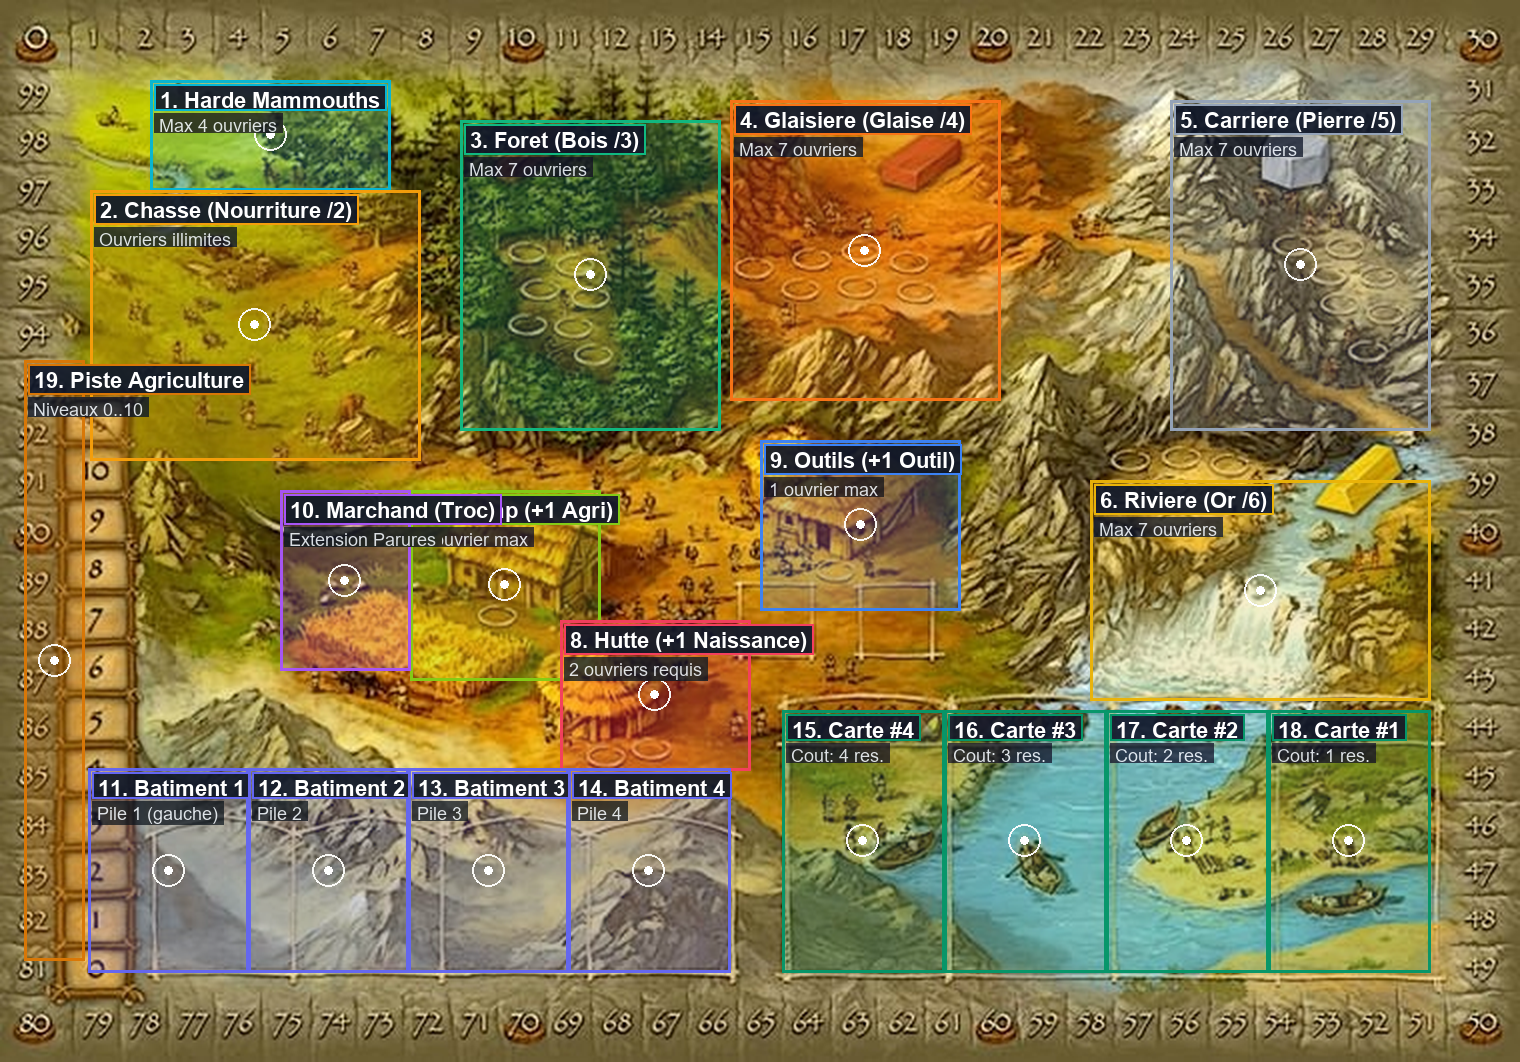
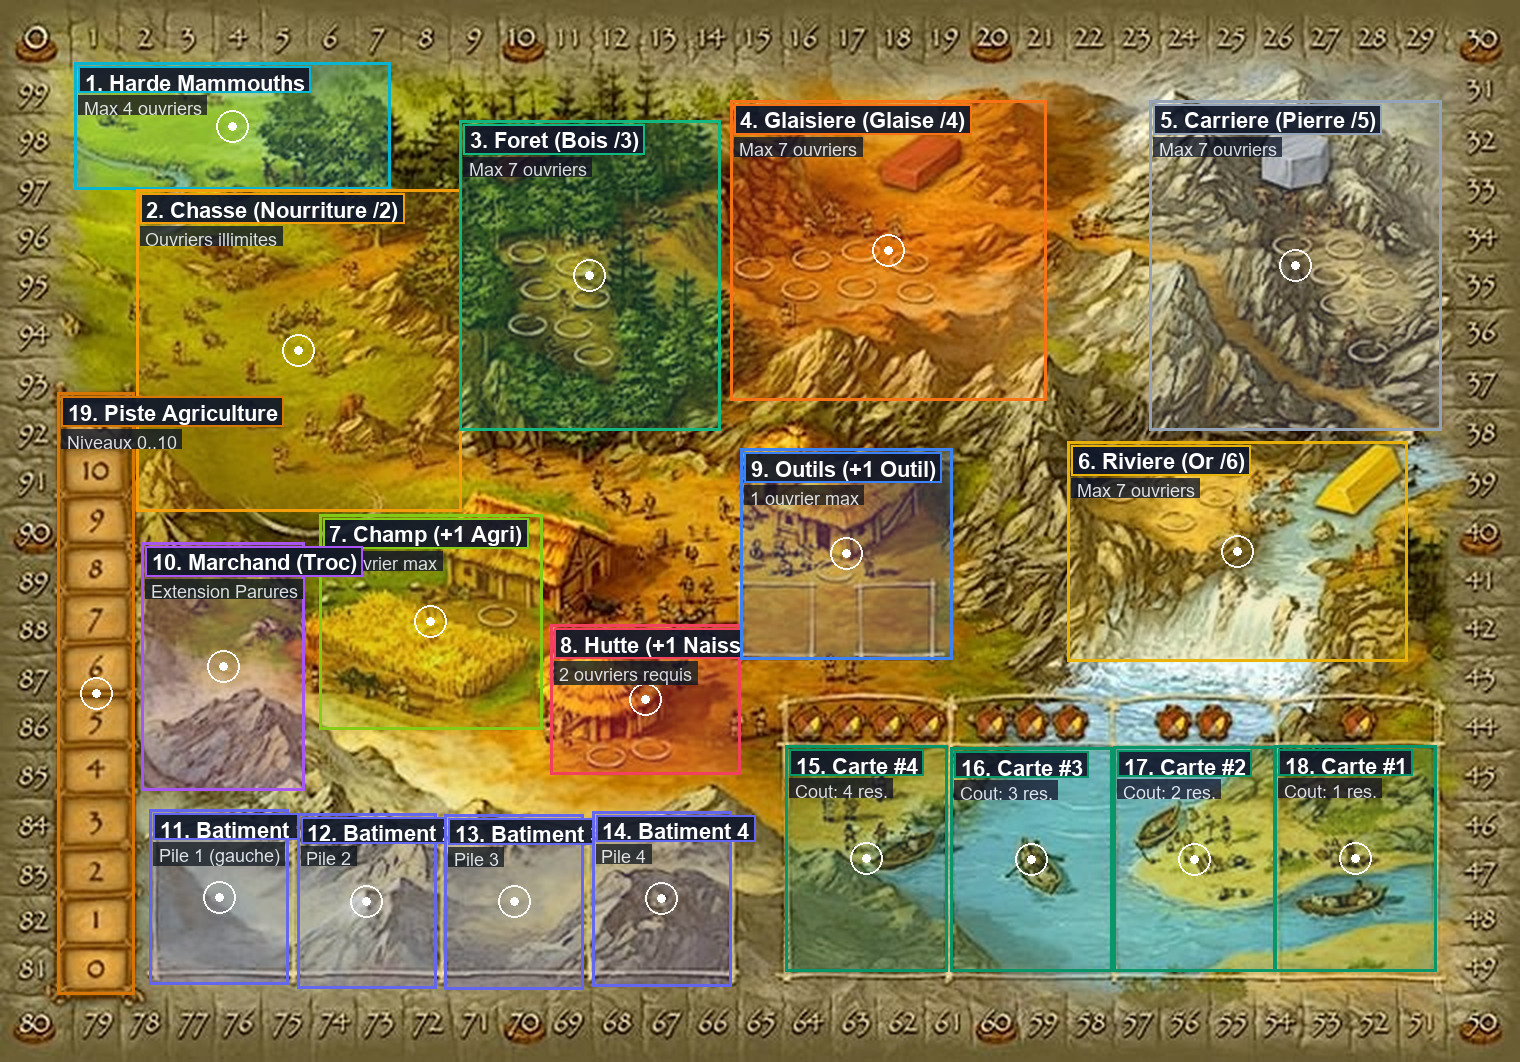
feat(board): adoption des coordonnées validées comme standard par défaut et masquage de l'éditeur hors des paramètres

diff --git a/src/data/classicBoardZones.ts b/src/data/classicBoardZones.ts
@@ -21,10 +21,10 @@ export const DEFAULT_CLASSIC_ZONES: Record<string, ClassicZoneData> = {
     sublabel: 'Extension Mammouth',
     category: 'expansions',
     color: '#06b6d4',
-    left: 9.87,
-    top: 7.53,
-    width: 15.79,
-    height: 10.36,
+    left: 4.91,
+    top: 5.89,
+    width: 20.75,
+    height: 12.00,
     radius: 6.5,
     capacity: 'Max 4 ouvriers',
   },
@@ -34,10 +34,10 @@ export const DEFAULT_CLASSIC_ZONES: Record<string, ClassicZoneData> = {
     sublabel: 'Nourriture ÷2',
     category: 'resources',
     color: '#f59e0b',
-    left: 5.92,
+    left: 8.97,
     top: 17.89,
-    width: 21.71,
-    height: 25.42,
+    width: 21.39,
+    height: 30.24,
     radius: 8.5,
     capacity: 'Ouvriers illimités',
   },
@@ -62,7 +62,7 @@ export const DEFAULT_CLASSIC_ZONES: Record<string, ClassicZoneData> = {
     color: '#f97316',
     left: 48.03,
     top: 9.42,
-    width: 17.76,
+    width: 20.81,
     height: 28.25,
     radius: 8.0,
     capacity: 'Max 7 ouvriers',
@@ -73,9 +73,9 @@ export const DEFAULT_CLASSIC_ZONES: Record<string, ClassicZoneData> = {
     sublabel: 'Pierre ÷5',
     category: 'resources',
     color: '#94a3b8',
-    left: 76.97,
+    left: 75.63,
     top: 9.42,
-    width: 17.11,
+    width: 19.21,
     height: 31.07,
     radius: 8.0,
     capacity: 'Max 7 ouvriers',
@@ -86,8 +86,8 @@ export const DEFAULT_CLASSIC_ZONES: Record<string, ClassicZoneData> = {
     sublabel: 'Or ÷6',
     category: 'resources',
     color: '#eab308',
-    left: 71.71,
-    top: 45.20,
+    left: 70.25,
+    top: 41.56,
     width: 22.37,
     height: 20.72,
     radius: 7.5,
@@ -99,10 +99,10 @@ export const DEFAULT_CLASSIC_ZONES: Record<string, ClassicZoneData> = {
     sublabel: '+1 Agriculture',
     category: 'village',
     color: '#84cc16',
-    left: 26.97,
-    top: 46.14,
-    width: 12.50,
-    height: 17.89,
+    left: 20.99,
+    top: 48.41,
+    width: 14.73,
+    height: 20.26,
     radius: 5.5,
     capacity: 'Max 1 ouvrier',
   },
@@ -112,8 +112,8 @@ export const DEFAULT_CLASSIC_ZONES: Record<string, ClassicZoneData> = {
     sublabel: '+1 Ouvrier',
     category: 'village',
     color: '#f43f5e',
-    left: 36.84,
-    top: 58.38,
+    left: 36.20,
+    top: 58.83,
     width: 12.50,
     height: 14.12,
     radius: 6.0,
@@ -125,10 +125,10 @@ export const DEFAULT_CLASSIC_ZONES: Record<string, ClassicZoneData> = {
     sublabel: '+1 Outil',
     category: 'village',
     color: '#3b82f6',
-    left: 50.00,
-    top: 41.43,
-    width: 13.16,
-    height: 16.01,
+    left: 48.73,
+    top: 42.25,
+    width: 13.92,
+    height: 19.83,
     radius: 5.5,
     capacity: 'Max 1 ouvrier',
   },
@@ -138,10 +138,10 @@ export const DEFAULT_CLASSIC_ZONES: Record<string, ClassicZoneData> = {
     sublabel: 'Extension Parures',
     category: 'expansions',
     color: '#a855f7',
-    left: 18.42,
-    top: 46.14,
-    width: 8.55,
-    height: 16.95,
+    left: 9.33,
+    top: 51.05,
+    width: 10.72,
+    height: 23.41,
     radius: 6.0,
     capacity: 'Max 1 ouvrier',
   },
@@ -151,10 +151,10 @@ export const DEFAULT_CLASSIC_ZONES: Record<string, ClassicZoneData> = {
     sublabel: 'Pile 1 (gauche)',
     category: 'buildings',
     color: '#6366f1',
-    left: 5.79,
-    top: 72.32,
-    width: 10.53,
-    height: 19.21,
+    left: 9.86,
+    top: 76.23,
+    width: 9.13,
+    height: 16.48,
     radius: 5.5,
     capacity: 'Max 1 ouvrier',
   },
@@ -164,10 +164,10 @@ export const DEFAULT_CLASSIC_ZONES: Record<string, ClassicZoneData> = {
     sublabel: 'Pile 2',
     category: 'buildings',
     color: '#6366f1',
-    left: 16.32,
-    top: 72.32,
-    width: 10.53,
-    height: 19.21,
+    left: 19.56,
+    top: 76.60,
+    width: 9.13,
+    height: 16.48,
     radius: 5.5,
     capacity: 'Max 1 ouvrier',
   },
@@ -177,10 +177,10 @@ export const DEFAULT_CLASSIC_ZONES: Record<string, ClassicZoneData> = {
     sublabel: 'Pile 3',
     category: 'buildings',
     color: '#6366f1',
-    left: 26.84,
-    top: 72.32,
-    width: 10.53,
-    height: 19.21,
+    left: 29.27,
+    top: 76.69,
+    width: 9.13,
+    height: 16.48,
     radius: 5.5,
     capacity: 'Max 1 ouvrier',
   },
@@ -190,10 +190,10 @@ export const DEFAULT_CLASSIC_ZONES: Record<string, ClassicZoneData> = {
     sublabel: 'Pile 4 (droite)',
     category: 'buildings',
     color: '#6366f1',
-    left: 37.37,
-    top: 72.32,
-    width: 10.66,
-    height: 19.21,
+    left: 38.97,
+    top: 76.41,
+    width: 9.13,
+    height: 16.48,
     radius: 5.5,
     capacity: 'Max 1 ouvrier',
   },
@@ -203,10 +203,10 @@ export const DEFAULT_CLASSIC_ZONES: Record<string, ClassicZoneData> = {
     sublabel: 'Coût: 4 res.',
     category: 'cards',
     color: '#059669',
-    left: 51.45,
-    top: 66.85,
+    left: 51.70,
+    top: 70.22,
     width: 10.66,
-    height: 24.67,
+    height: 21.30,
     radius: 6.0,
     capacity: 'Coût: 4 ressources',
   },
@@ -216,10 +216,10 @@ export const DEFAULT_CLASSIC_ZONES: Record<string, ClassicZoneData> = {
     sublabel: 'Coût: 3 res.',
     category: 'cards',
     color: '#059669',
-    left: 62.11,
-    top: 66.85,
+    left: 62.56,
+    top: 70.40,
     width: 10.66,
-    height: 24.67,
+    height: 21.12,
     radius: 6.0,
     capacity: 'Coût: 3 ressources',
   },
@@ -229,10 +229,10 @@ export const DEFAULT_CLASSIC_ZONES: Record<string, ClassicZoneData> = {
     sublabel: 'Coût: 2 res.',
     category: 'cards',
     color: '#059669',
-    left: 72.76,
-    top: 66.85,
+    left: 73.27,
+    top: 70.31,
     width: 10.66,
-    height: 24.67,
+    height: 21.21,
     radius: 6.0,
     capacity: 'Coût: 2 ressources',
   },
@@ -242,10 +242,10 @@ export const DEFAULT_CLASSIC_ZONES: Record<string, ClassicZoneData> = {
     sublabel: 'Coût: 1 res.',
     category: 'cards',
     color: '#059669',
-    left: 83.42,
-    top: 66.85,
+    left: 83.87,
+    top: 70.22,
     width: 10.66,
-    height: 24.67,
+    height: 21.30,
     radius: 6.0,
     capacity: 'Coût: 1 ressource',
   },
@@ -255,10 +255,10 @@ export const DEFAULT_CLASSIC_ZONES: Record<string, ClassicZoneData> = {
     sublabel: 'Niveaux 0..10',
     category: 'tracks',
     color: '#d97706',
-    left: 1.84,
-    top: 33.90,
-    width: 3.95,
-    height: 54.61,
+    left: 3.81,
+    top: 37.00,
+    width: 5.03,
+    height: 56.61,
     radius: 4.0,
     capacity: 'Piste verticale',
   },
@@ -276,7 +276,6 @@ export function getClassicZones(): Record<string, ClassicZoneData> {
     const raw = localStorage.getItem(STORAGE_KEY);
     if (!raw) return { ...DEFAULT_CLASSIC_ZONES };
     const parsed = JSON.parse(raw);
-    // Merge with defaults to ensure all fields and zones exist
     const merged: Record<string, ClassicZoneData> = { ...DEFAULT_CLASSIC_ZONES };
     Object.keys(parsed).forEach(k => {
       if (merged[k]) {

diff --git a/src/components/HomeScreen.tsx b/src/components/HomeScreen.tsx
@@ -142,17 +142,6 @@ export const HomeScreen: React.FC<HomeScreenProps> = ({
             <BookOpen className="w-4 h-4 text-amber-400/80" />
             <span>Règles & Aide de Jeu</span>
           </button>
-
-          {/* Calibrage des zones du plateau original */}
-          {onOpenZoneEditor && (
-            <button
-              onClick={onOpenZoneEditor}
-              className="w-full py-2.5 sm:py-3 px-6 rounded-2xl bg-stone-950/80 hover:bg-stone-900 text-stone-300 hover:text-amber-300 font-semibold text-xs sm:text-sm tracking-wide transition-all border border-stone-800 hover:border-amber-500/50 backdrop-blur-md cursor-pointer flex items-center justify-center gap-2.5 shadow-md active:scale-95"
-            >
-              <Sliders className="w-4 h-4 text-amber-400" />
-              <span>🛠 Calibrer les zones du plateau</span>
-            </button>
-          )}
         </div>
       </main>
 

diff --git a/src/components/Board/VirtualBoard3D.tsx b/src/components/Board/VirtualBoard3D.tsx
@@ -1102,16 +1102,6 @@ export const VirtualBoard3D: React.FC<VirtualBoard3DProps> = ({
             >
               {isFullscreen ? <Minimize2 className="w-4 h-4" /> : <Maximize2 className="w-4 h-4" />}
             </button>
-            {onOpenZoneEditor && (
-              <button
-                onClick={onOpenZoneEditor}
-                title="Déplacer et modifier directement les zones sur le plateau original"
-                className="px-2.5 py-1 rounded-xl text-xs font-bold bg-amber-500/20 hover:bg-amber-500/30 text-amber-300 hover:text-white border border-amber-500/50 cursor-pointer transition-colors flex items-center gap-1 shadow-sm"
-              >
-                <Sliders className="w-3.5 h-3.5 text-amber-400" />
-                <span className="hidden sm:inline">Éditeur Zones</span>
-              </button>
-            )}
           </div>
         </div>
 

diff --git a/src/components/Board/VirtualBoard.tsx b/src/components/Board/VirtualBoard.tsx
@@ -496,18 +496,6 @@ export const VirtualBoard: React.FC<VirtualBoardProps> = ({
             );
           })}
         </div>
-
-        {/* Quick Button for Zone Editor */}
-        {onOpenZoneEditor && (
-          <button
-            onClick={onOpenZoneEditor}
-            className="absolute top-2 right-2 z-40 px-2.5 py-1 rounded-xl bg-stone-900/90 hover:bg-stone-800 text-amber-300 hover:text-white border border-amber-500/50 shadow-lg text-xs font-bold transition-all flex items-center gap-1.5 cursor-pointer backdrop-blur-md"
-            title="Ouvrir l'éditeur interactif pour déplacer les zones"
-          >
-            <Sliders className="w-3.5 h-3.5 text-amber-400" />
-            <span>Éditeur Zones</span>
-          </button>
-        )}
       </div>
     </div>
   );
